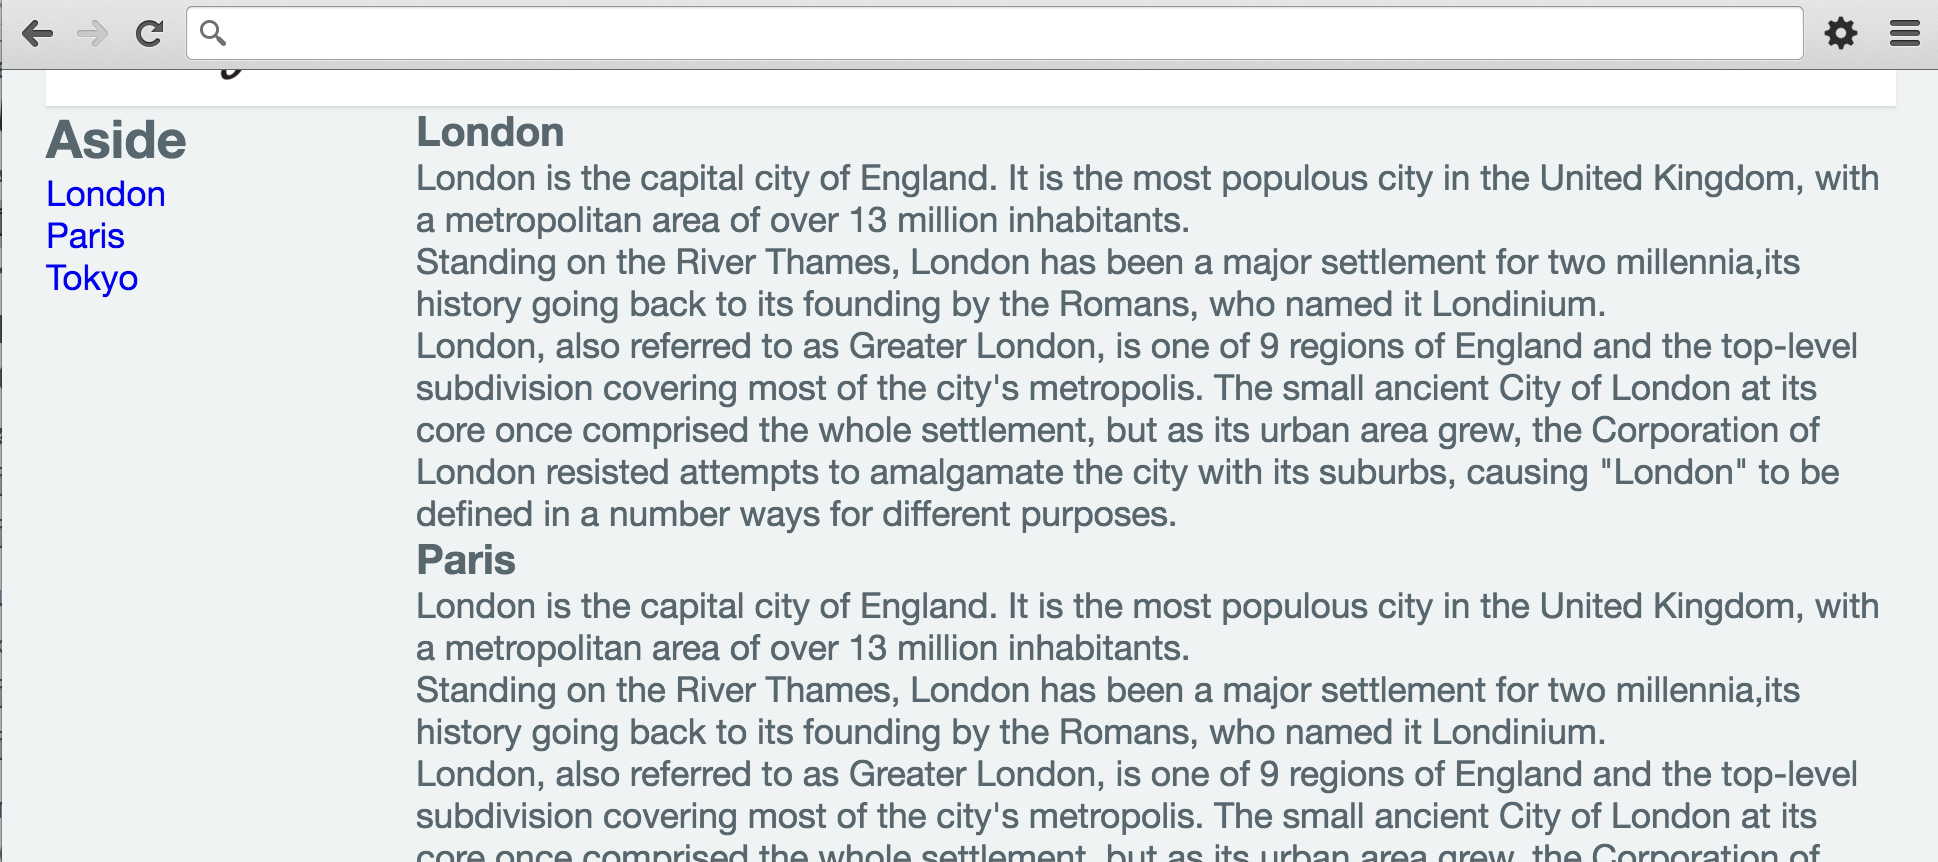
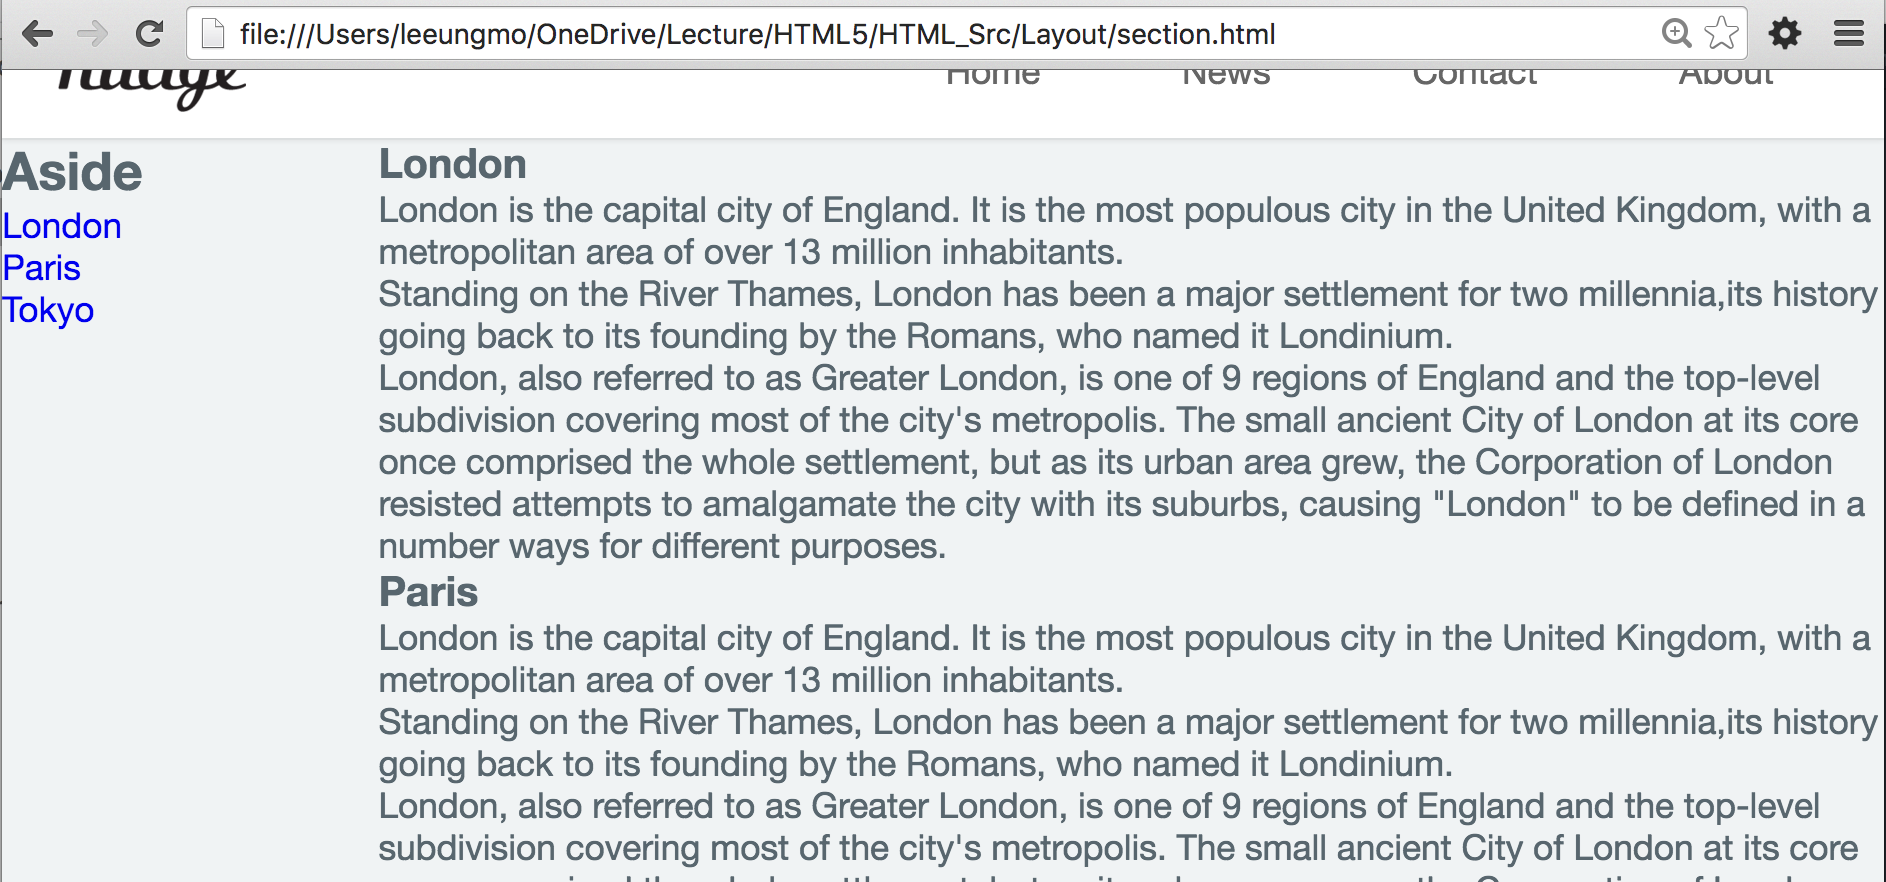
.

Changed region(s): [[0.1845, 0.1206, 1.0, 1.0], [0.0, 0.0, 1.0, 0.3619]]

diff --git a/_posts/2016-01-06-CSS3-Layout.md b/_posts/2016-01-06-CSS3-Layout.md
@@ -308,13 +308,29 @@ section {
 
 ![layout-practice-7](/img/layout-practice-7.png)
 
+header 요소를 상단에 고정시킨다.
 
+```css
+header {
+  /*for sticky header*/
+  position: fixed;
+  top: 0;
+  ...
+}
+```
 
+contents 영역 상단이 header 영역과 겹치므로 contents 영역을 header 영역 만큼 아래로 끌어 내린다.
 
+```css
+#wrap {
+  /*margin-top = header height*/
+  margin: 60px 0 0;
+}
+```
 
+![layout-practice-8](/img/layout-practice-8.png)
 
-
-
+이제 header 영역은 고정되었다. 그런데 화면이 스크롤될 때 좌측 aside의 navigation이 사라지는 것은 마찬가지로 불편할 수 있다. aside 영역도 고정시키도록 하자.
 
 
 
